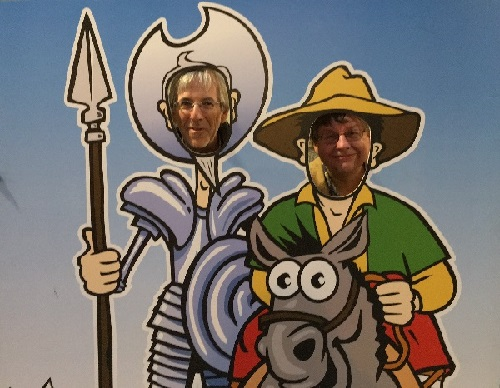
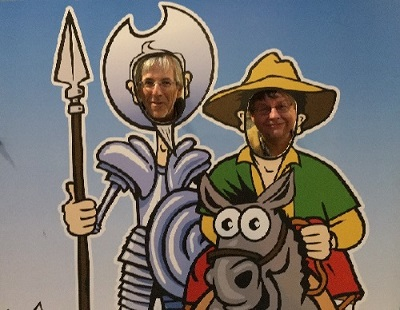
Add Cervathon photos

diff --git a/topics/p/cervantes/cervathon/index.html b/topics/p/cervantes/cervathon/index.html
@@ -197,8 +197,20 @@
      <a id="photo"></a>
      <h4>Photos</h4>
      <div class="rg-photo-left">
-      <a href="photos/DonAndSancho.jpg"><img src="photos/DonAndSanchoWee.jpg" width="500" height="388" alt="Photograph of Cervathon preparations"></a>
+      <a href="photos/DonAndSancho.jpg"><img src="photos/DonAndSanchoWee.jpg" width="400" height="310" alt="Photograph of Cervathon preparations"></a>
       <p><em>The Don and Sancho get ready to RIMMF.</em></p>
+     </div>
+     <div class="rg-photo-right">
+      <a href="photos/RF_3371.jpg"><img src="photos/RF_3371Wee.jpg" width="400" height="300" alt="Photograph of Cervathon taken by Richard Fritz"></a>
+      <p><em>Looking for expressions.</em></p>
+     </div>
+     <div class="rg-photo-left">
+      <a href="photos/RF_3379.jpg"><img src="photos/RF_3379Wee.jpg" width="400" height="310" alt="Photograph of Cervathon taken by Richard Fritz"></a>
+      <p><em>Finding the work.</em></p>
+     </div>
+     <div class="rg-photo-right">
+      <a href="photos/RF_3385.jpg"><img src="photos/RF_3385Wee.jpg" width="400" height="300" alt="Photograph of Cervathon taken by Richard Fritz"></a>
+      <p><em>Well, it looked like a windmill!</em></p>
      </div>
      <p><img src="../cervitems.gif" width="661" height="364" alt="Covers of books and other resources by and about Miguel de Cervantes"></p>
      <!-- InstanceEndEditable -->
@@ -243,7 +255,7 @@
     </div>
    </div>
    <div class="date-updated">
-    <p>This page was last updated <!-- InstanceBeginEditable name="DateUpdated" -->13 Apr 2016<!-- InstanceEndEditable --></p>
+    <p>This page was last updated <!-- InstanceBeginEditable name="DateUpdated" -->16 Apr 2016<!-- InstanceEndEditable --></p>
    </div>
   </div>
  </footer>
